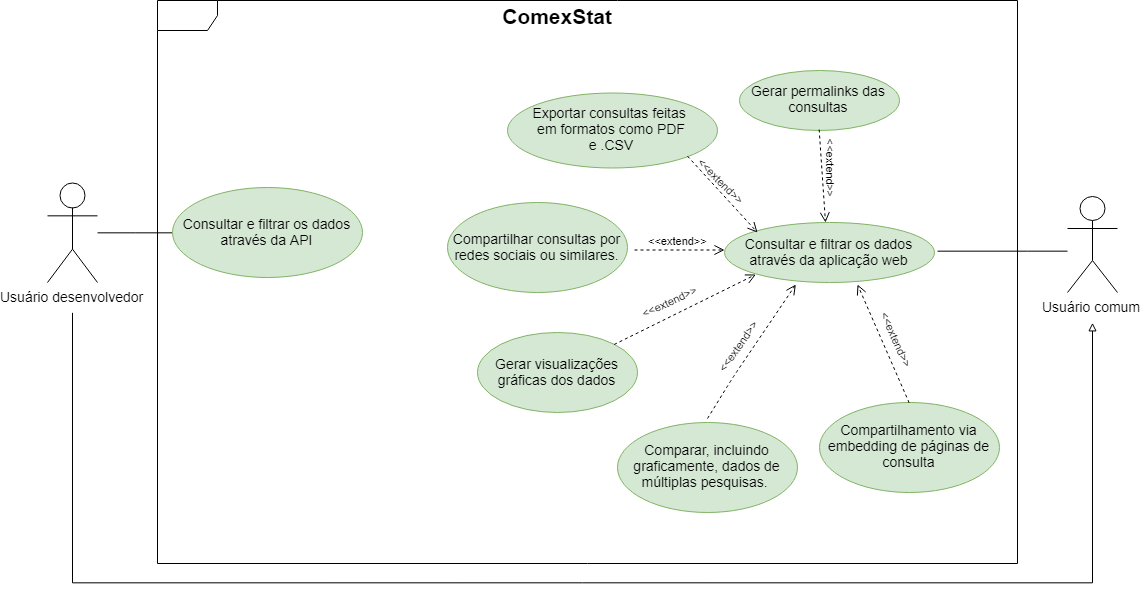
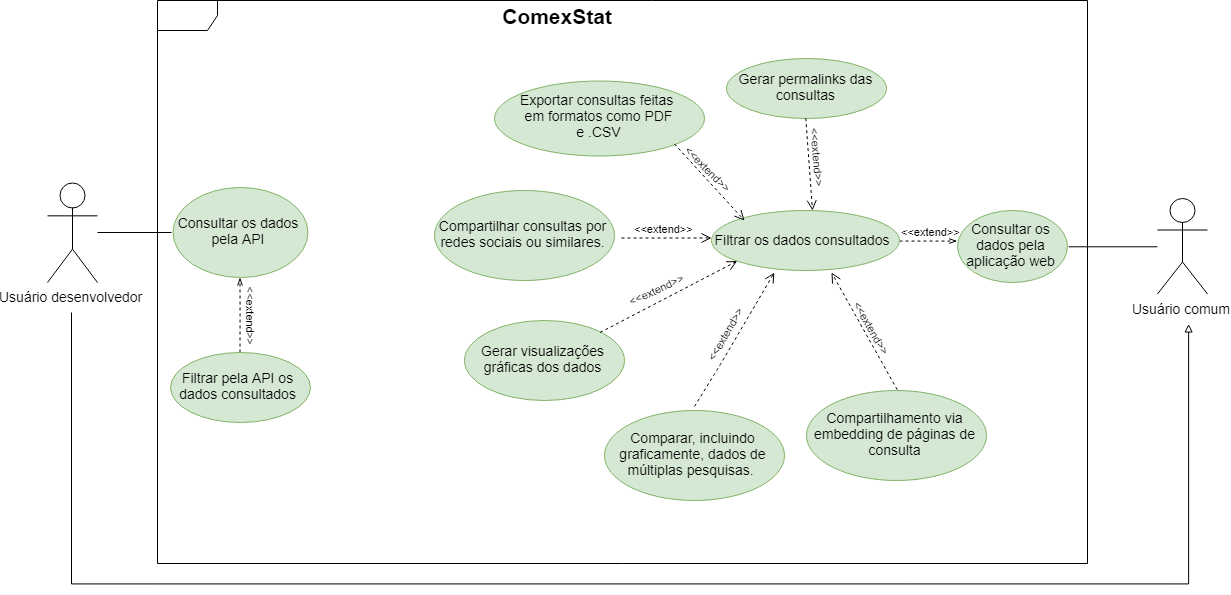
Reviewing and correcting Use Cases diagram

diff --git a/docs/docs/doc-de-arquitetura.md b/docs/docs/doc-de-arquitetura.md
@@ -83,7 +83,8 @@ Na forma escolhida para classifica-los, os casos de uso possuem três tipos de p
 
    |Caso de Uso|Prioridade|
    |:---------:|:--------:|
-   |Consultar e filtrar os dados disponibilizados, através da API ou da aplicação web |Essencial|
+   |Consultar e filtrar os dados disponibilizados, através da API|Essencial|
+   |Consultar e filtrar os dados disponibilizados, através da aplicação web|Essencial|
    |Gerar permalinks dos resultados pesquisados|Essencial|
    |Exportar os resultados das consultas em formatos como .csv e PDF|Essencial|
    |Gerar visualizações gráficas dos dados|Essencial|
